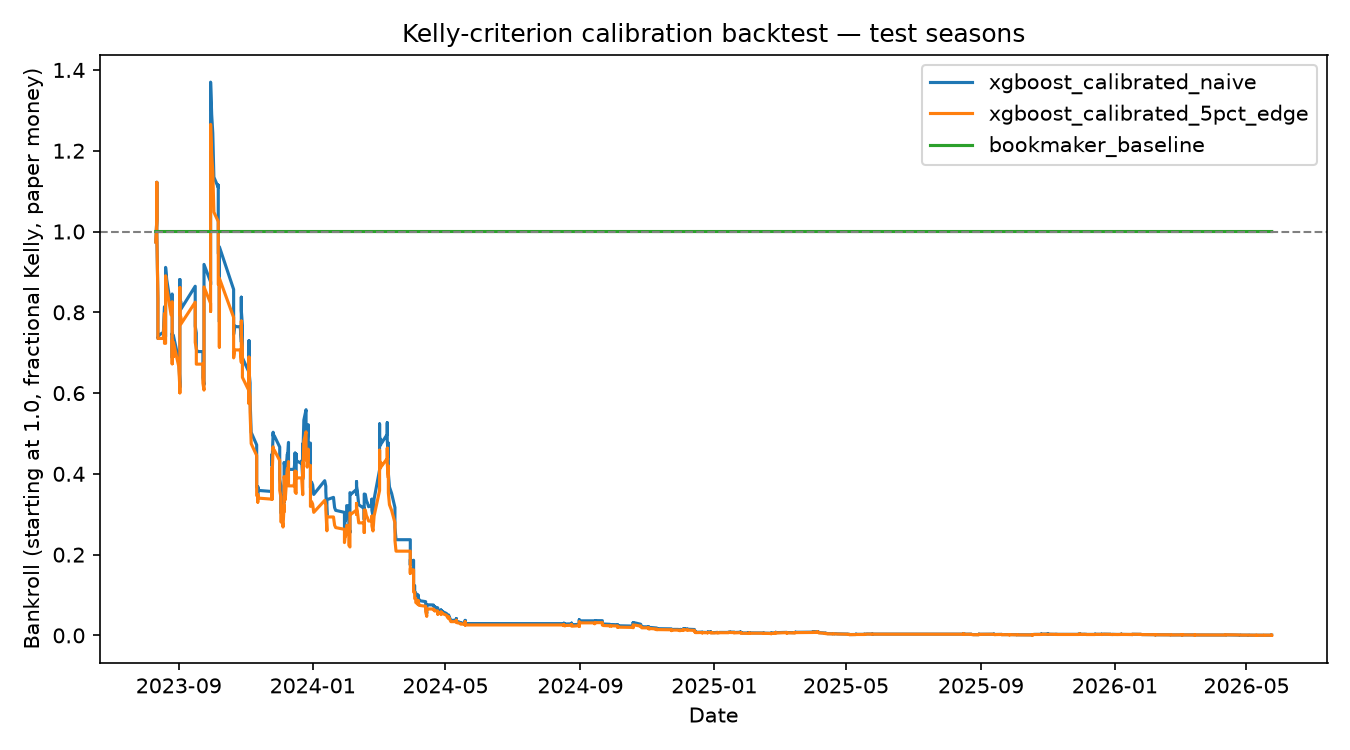
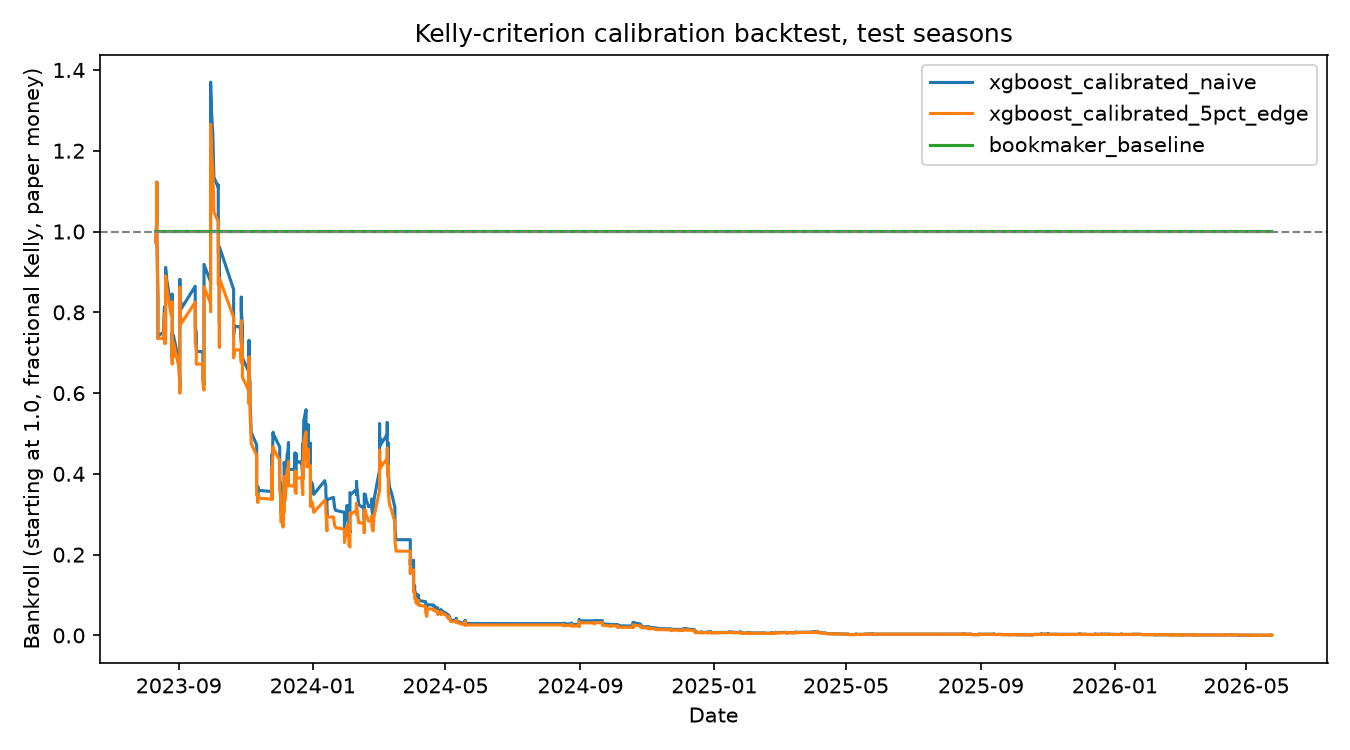
Remove remaining em/en dashes, add factor legend, new theme pass
Dashes: found two more instances the previous pass missed, baked directly
into chart images as matplotlib ax.set_title() text (reports/shap_importance.png,
reports/kelly_backtest.png), not just in prose. Fixed both titles and
regenerated only those two plots (skipping the slow Dixon-Coles refit,
which isn't involved in either) rather than rerunning the full walk-forward
pipeline. Underlying values are unchanged, confirmed via the untouched
shap_importance.csv.

New feature: describe_feature() in features.py translates a FEATURE_COLUMNS
name (e.g. "home_homeform5_shots_target_for") into a plain-English
sentence by parsing the naming convention (side, form-window type,
window size, stat). app.py now renders this as an auto-expanded "Factor
key" under the SHAP chart, scoped to only the features actually shown for
the current prediction rather than dumping all 59 at once.

Theme: swapped the Chakra Petch/orange palette for a second reference
(Inter font, black background, yellow #fdda2b primary accent, blue
#2b94fd secondary, light-gray #e0e0e0 text, white borders, 7px radius).
Contrast-checked all pairings against WCAG AA before applying (weakest
pairing, blue-on-black, is 6.63:1 against a 4.5:1 requirement). Verified
in a real browser: Inter's stylesheet actually fetches (200 OK, checked
via network request), font applies everywhere via computed style, icons
still render as glyphs not broken ligature text, no console errors.

Changed region(s): [[0.28, 0.0307, 0.7778, 0.0613]]

diff --git a/app.py b/app.py
@@ -15,30 +15,34 @@ import streamlit as st
 from src.config import CURRENT_SEASON, MODELS_DIR, ROOT_DIR, SEASON_CODES
 from src.data import load_raw_matches
 from src.evaluate import explain_single_match
-from src.features import FEATURE_COLUMNS, build_feature_table
+from src.features import FEATURE_COLUMNS, build_feature_table, describe_feature
 from src.train import CLASSES, CalibratedXGBoostModel
 
 CLASS_LABELS = {"H": "Home Win", "D": "Draw", "A": "Away Win"}
 BG_COLOR = "#000000"
-TEXT_COLOR = "#ffffff"
-ACCENT_COLOR = "#fe5900"
+TEXT_COLOR = "#e0e0e0"
+ACCENT_COLOR = "#fdda2b"
+SECONDARY_COLOR = "#2b94fd"
 
 st.set_page_config(page_title="Premier League Match Predictor", layout="wide")
 
 # Streamlit's native `[theme] font = "name:url"` config doesn't actually
-# inject the stylesheet for an external URL in this Streamlit version (verified:
-# no <link>/@import ever appears in the rendered page, font silently falls
-# back) — load it the traditional, reliable way instead.
+# inject the stylesheet for an external URL in this Streamlit version
+# (verified: no <link>/@import ever appears in the rendered page, font
+# silently falls back), so it's loaded the traditional, reliable way instead.
 st.markdown(
     """
     <style>
-    @import url('https://fonts.googleapis.com/css2?family=Chakra+Petch:wght@400;500;600;700&display=swap');
-    /* Exclude icon elements — Streamlit renders icons (expander arrows,
+    @import url('https://fonts.googleapis.com/css2?family=Inter:wght@400;500;600;700&display=swap');
+    /* Exclude icon elements. Streamlit renders icons (expander arrows,
        etc.) as ligature text like "keyboard_arrow_right" in the Material
-       Symbols font; overriding font-family on them turns icons into
+       Symbols font, so overriding font-family on them turns icons into
        visible broken text instead of glyphs. */
     *:not([data-testid="stIconMaterial"]) {
-        font-family: 'Chakra Petch', sans-serif !important;
+        font-family: 'Inter', sans-serif !important;
+    }
+    button, input, select, [data-baseweb="select"], [data-testid="stExpander"] summary {
+        transition: all 250ms ease !important;
     }
     </style>
     """,
@@ -47,7 +51,7 @@ st.markdown(
 
 
 def _dark_figure(figsize):
-    """Matplotlib figures don't inherit Streamlit's theme automatically —
+    """Matplotlib figures don't inherit Streamlit's theme automatically, so
     style them to match rather than render a jarring white box on a black
     page."""
     fig, ax = plt.subplots(figsize=figsize)
@@ -58,7 +62,7 @@ def _dark_figure(figsize):
     ax.yaxis.label.set_color(TEXT_COLOR)
     ax.title.set_color(TEXT_COLOR)
     for spine in ax.spines.values():
-        spine.set_color("#434343")
+        spine.set_color("#3e4342")
     return fig, ax
 
 
@@ -67,7 +71,7 @@ def load_app_resources():
     raw_all = load_raw_matches(seasons=SEASON_CODES + [CURRENT_SEASON])
     features_all, state = build_feature_table(raw_all, return_state=True)
 
-    # Train on complete seasons only — the partial in-progress season stays
+    # Train on complete seasons only. The partial in-progress season stays
     # out of training (too small, still accumulating) but IS reflected in
     # `state`, so team form/Elo used for live predictions is current.
     train_features = features_all[features_all["season"].isin(SEASON_CODES)]
@@ -81,8 +85,8 @@ def load_app_resources():
         | set(raw_all.loc[raw_all["season"] == CURRENT_SEASON, "away_team"])
     )
     if len(current_teams) < 20:
-        # Early in a season, not every team may have played yet — fall back
-        # to the most recently completed season's roster.
+        # Early in a season, not every team may have played yet, so fall
+        # back to the most recently completed season's roster.
         last_complete = SEASON_CODES[-1]
         current_teams = sorted(
             set(raw_all.loc[raw_all["season"] == last_complete, "home_team"])
@@ -113,7 +117,7 @@ if results_table is not None and "bookmaker_baseline" in results_table.index and
     st.info(
         f"Honesty check: on held-out test seasons, this model {verdict} the bookmaker's own "
         f"odds (log loss {model_ll:.3f} vs {market_ll:.3f}). Treat the probabilities below as a "
-        "reasonable estimate to inspect, not a betting edge — see the README for the full analysis."
+        "reasonable estimate to inspect, not a betting edge. See the README for the full analysis."
     )
 
 col1, col2, col3 = st.columns([2, 2, 1.3])
@@ -145,11 +149,15 @@ with mcol:
 st.subheader(f"Top factors behind the '{CLASS_LABELS[CLASSES[pred_idx]]}' prediction")
 explanation = explain_single_match(model.base_model.model, X_row, class_idx=pred_idx)
 fig, ax = _dark_figure(figsize=(8, 4))
-colors = [ACCENT_COLOR if v > 0 else "#555867" for v in explanation["shap_value"][::-1]]
+colors = [ACCENT_COLOR if v > 0 else SECONDARY_COLOR for v in explanation["shap_value"][::-1]]
 ax.barh(explanation["feature"][::-1], explanation["shap_value"][::-1], color=colors)
 ax.set_xlabel(f"SHAP value (push toward '{CLASS_LABELS[CLASSES[pred_idx]]}' →, away from it ←)")
 fig.tight_layout()
 st.pyplot(fig)
+
+with st.expander("Factor key: what these labels mean", expanded=True):
+    for feature_name in explanation["feature"]:
+        st.markdown(f"**`{feature_name}`**: {describe_feature(feature_name)}")
 
 with st.expander("Raw feature snapshot used for this prediction"):
     summary_rows = []
@@ -177,7 +185,7 @@ with st.expander("Compare against bookmaker odds (optional)"):
             "Model": proba,
             "Market (de-vigged)": market_proba,
         }, index=[CLASS_LABELS[c] for c in CLASSES])
-        st.bar_chart(compare_df, horizontal=True, color=[ACCENT_COLOR, "#555867"])
+        st.bar_chart(compare_df, horizontal=True, color=[ACCENT_COLOR, SECONDARY_COLOR])
 
 if results_table is not None:
     with st.expander("Full results table (held-out test seasons, 2023/24-2025/26)"):

diff --git a/src/features.py b/src/features.py
@@ -7,6 +7,7 @@ through matches in date order, snapshotting each team's rolling stats
 *before* folding the current match's result into that team's history. See
 tests/test_features.py for explicit leakage-guard assertions.
 """
+import re
 from collections import defaultdict, deque
 
 import numpy as np
@@ -208,6 +209,53 @@ def _feature_columns() -> list[str]:
 
 
 FEATURE_COLUMNS = _feature_columns()
+
+STAT_DESCRIPTIONS = {
+    "goals_for": "goals scored",
+    "goals_against": "goals conceded",
+    "shots_for": "shots taken",
+    "shots_against": "shots faced",
+    "shots_target_for": "shots on target taken",
+    "shots_target_against": "shots on target faced",
+    "corners_for": "corners won",
+    "corners_against": "corners conceded",
+}
+
+_SPECIAL_FEATURE_DESCRIPTIONS = {
+    "elo_diff": "The gap between the two teams' Elo strength ratings, with home advantage already added in. The single biggest driver of every prediction.",
+    "elo_home_pre": "The home team's Elo rating going into this match.",
+    "elo_away_pre": "The away team's Elo rating going into this match.",
+    "rest_days_home": "Days since the home team's previous match.",
+    "rest_days_away": "Days since the away team's previous match.",
+}
+
+_FEATURE_NAME_PATTERN = re.compile(r"^(home|away)_(form|homeform|awayform)(\d+)_(.+)$")
+
+
+def describe_feature(name: str) -> str:
+    """Plain-English description of a FEATURE_COLUMNS entry, used to build
+    a factor legend in the Streamlit app so a reader doesn't have to guess
+    what e.g. 'home_homeform5_shots_target_for' means."""
+    if name in _SPECIAL_FEATURE_DESCRIPTIONS:
+        return _SPECIAL_FEATURE_DESCRIPTIONS[name]
+
+    match = _FEATURE_NAME_PATTERN.match(name)
+    if not match:
+        return name
+
+    side, form_type, window, stat = match.groups()
+    side_label = "Home team's" if side == "home" else "Away team's"
+    if form_type == "form":
+        scope = f"last {window} matches, home or away"
+    elif form_type == "homeform":
+        scope = f"last {window} home matches"
+    else:
+        scope = f"last {window} away matches"
+
+    if stat == "n":
+        return f"{side_label} number of matches this average is based on (fewer than {window} early in a team's history)."
+    stat_label = STAT_DESCRIPTIONS.get(stat, stat.replace("_", " "))
+    return f"{side_label} average {stat_label} over its {scope}."
 
 
 if __name__ == "__main__":

diff --git a/src/evaluate.py b/src/evaluate.py
@@ -192,7 +192,7 @@ def shap_feature_importance(df: pd.DataFrame, best_params: dict, top_n: int = 15
     top = importance.head(top_n).iloc[::-1]
     ax.barh(top["feature"], top["mean_abs_shap"])
     ax.set_xlabel("Mean |SHAP value| (avg over H/D/A classes)")
-    ax.set_title(f"Top {top_n} features — XGBoost, test seasons")
+    ax.set_title(f"Top {top_n} features: XGBoost, test seasons")
     fig.tight_layout()
     REPORTS_DIR.mkdir(parents=True, exist_ok=True)
     fig.savefig(REPORTS_DIR / "shap_importance.png", dpi=150)
@@ -283,7 +283,7 @@ def plot_kelly_backtest(results: dict):
     ax.axhline(1.0, linestyle="--", color="gray", linewidth=1)
     ax.set_ylabel("Bankroll (starting at 1.0, fractional Kelly, paper money)")
     ax.set_xlabel("Date")
-    ax.set_title("Kelly-criterion calibration backtest — test seasons")
+    ax.set_title("Kelly-criterion calibration backtest, test seasons")
     ax.legend()
     fig.tight_layout()
     REPORTS_DIR.mkdir(parents=True, exist_ok=True)
